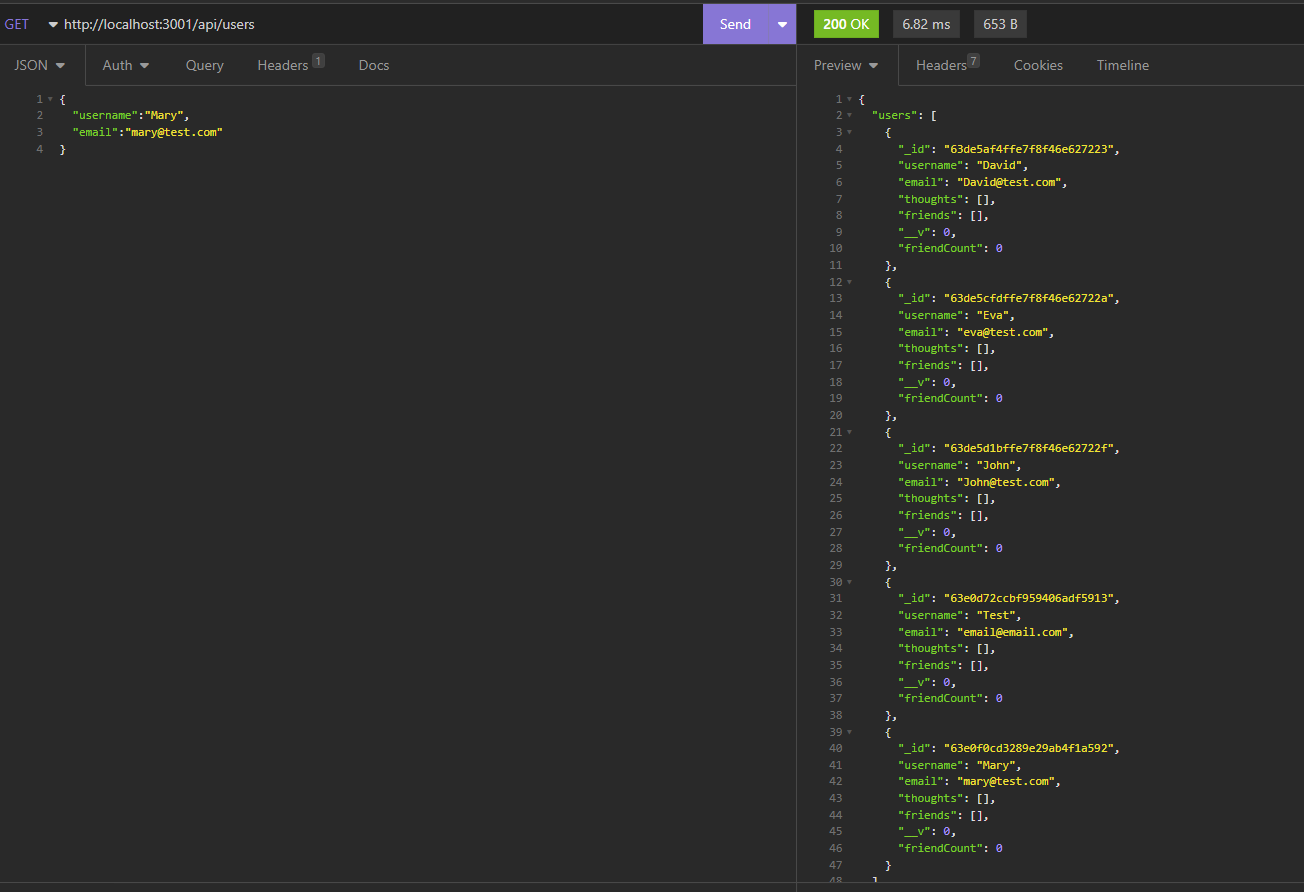
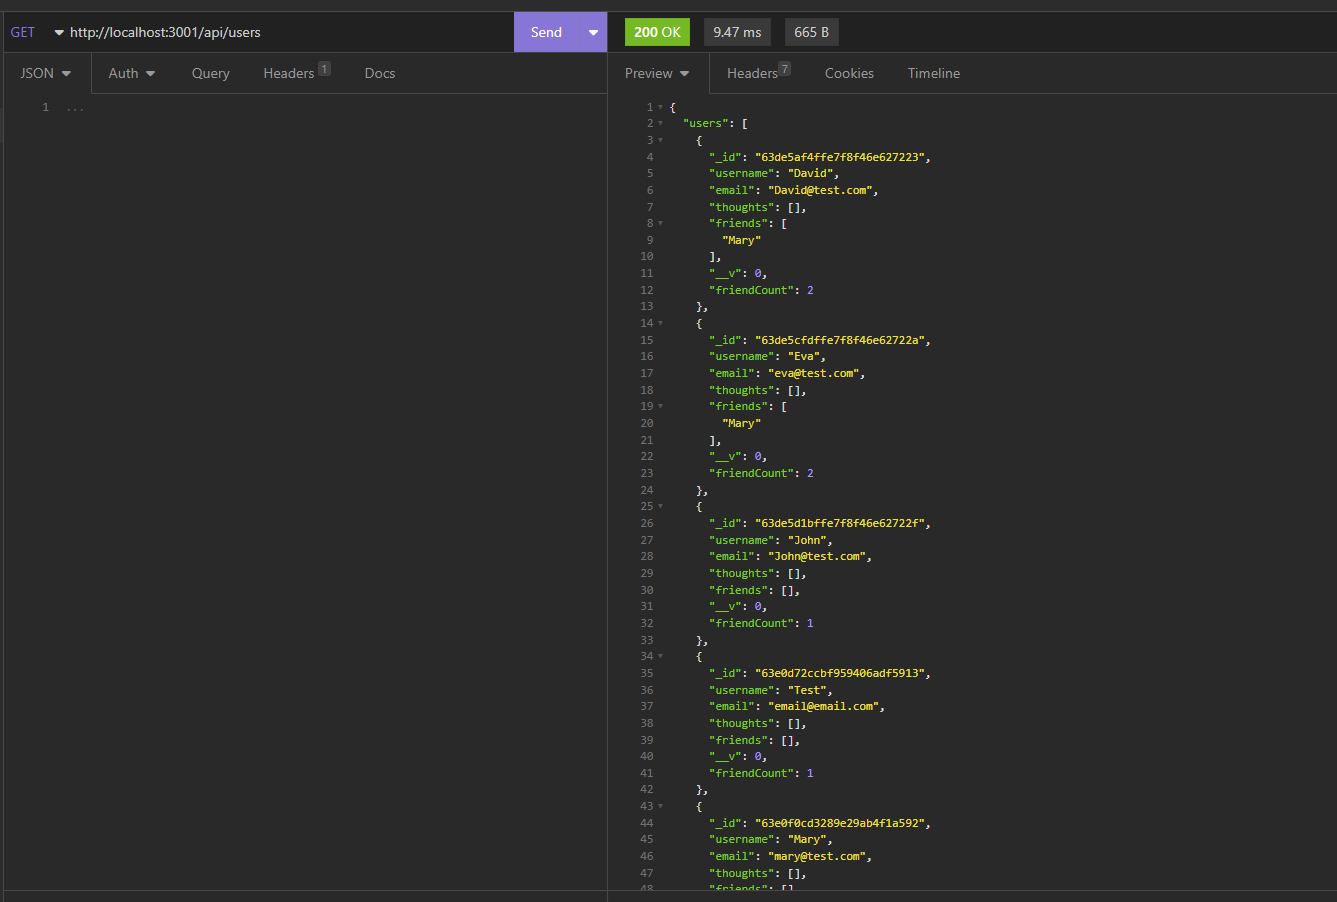
Demo video added

diff --git a/models/User.js b/models/User.js
@@ -39,7 +39,7 @@ userSchema
   .virtual("friendCount")
   // Getter
   .get(function () {
-    return this.friends.length;
+    return this.friends.length + 1;
   });
 
 const User = model("user", userSchema);

diff --git a/README.md b/README.md
@@ -24,7 +24,7 @@ Installations needed to use the App
 ```
 # Links
 -----------------------------------------------------------------------
-### [Demo Video]()
+### [Demo Video](https://youtu.be/rMnoTxdJhcQ)
 ### [Repository]()
 
 
